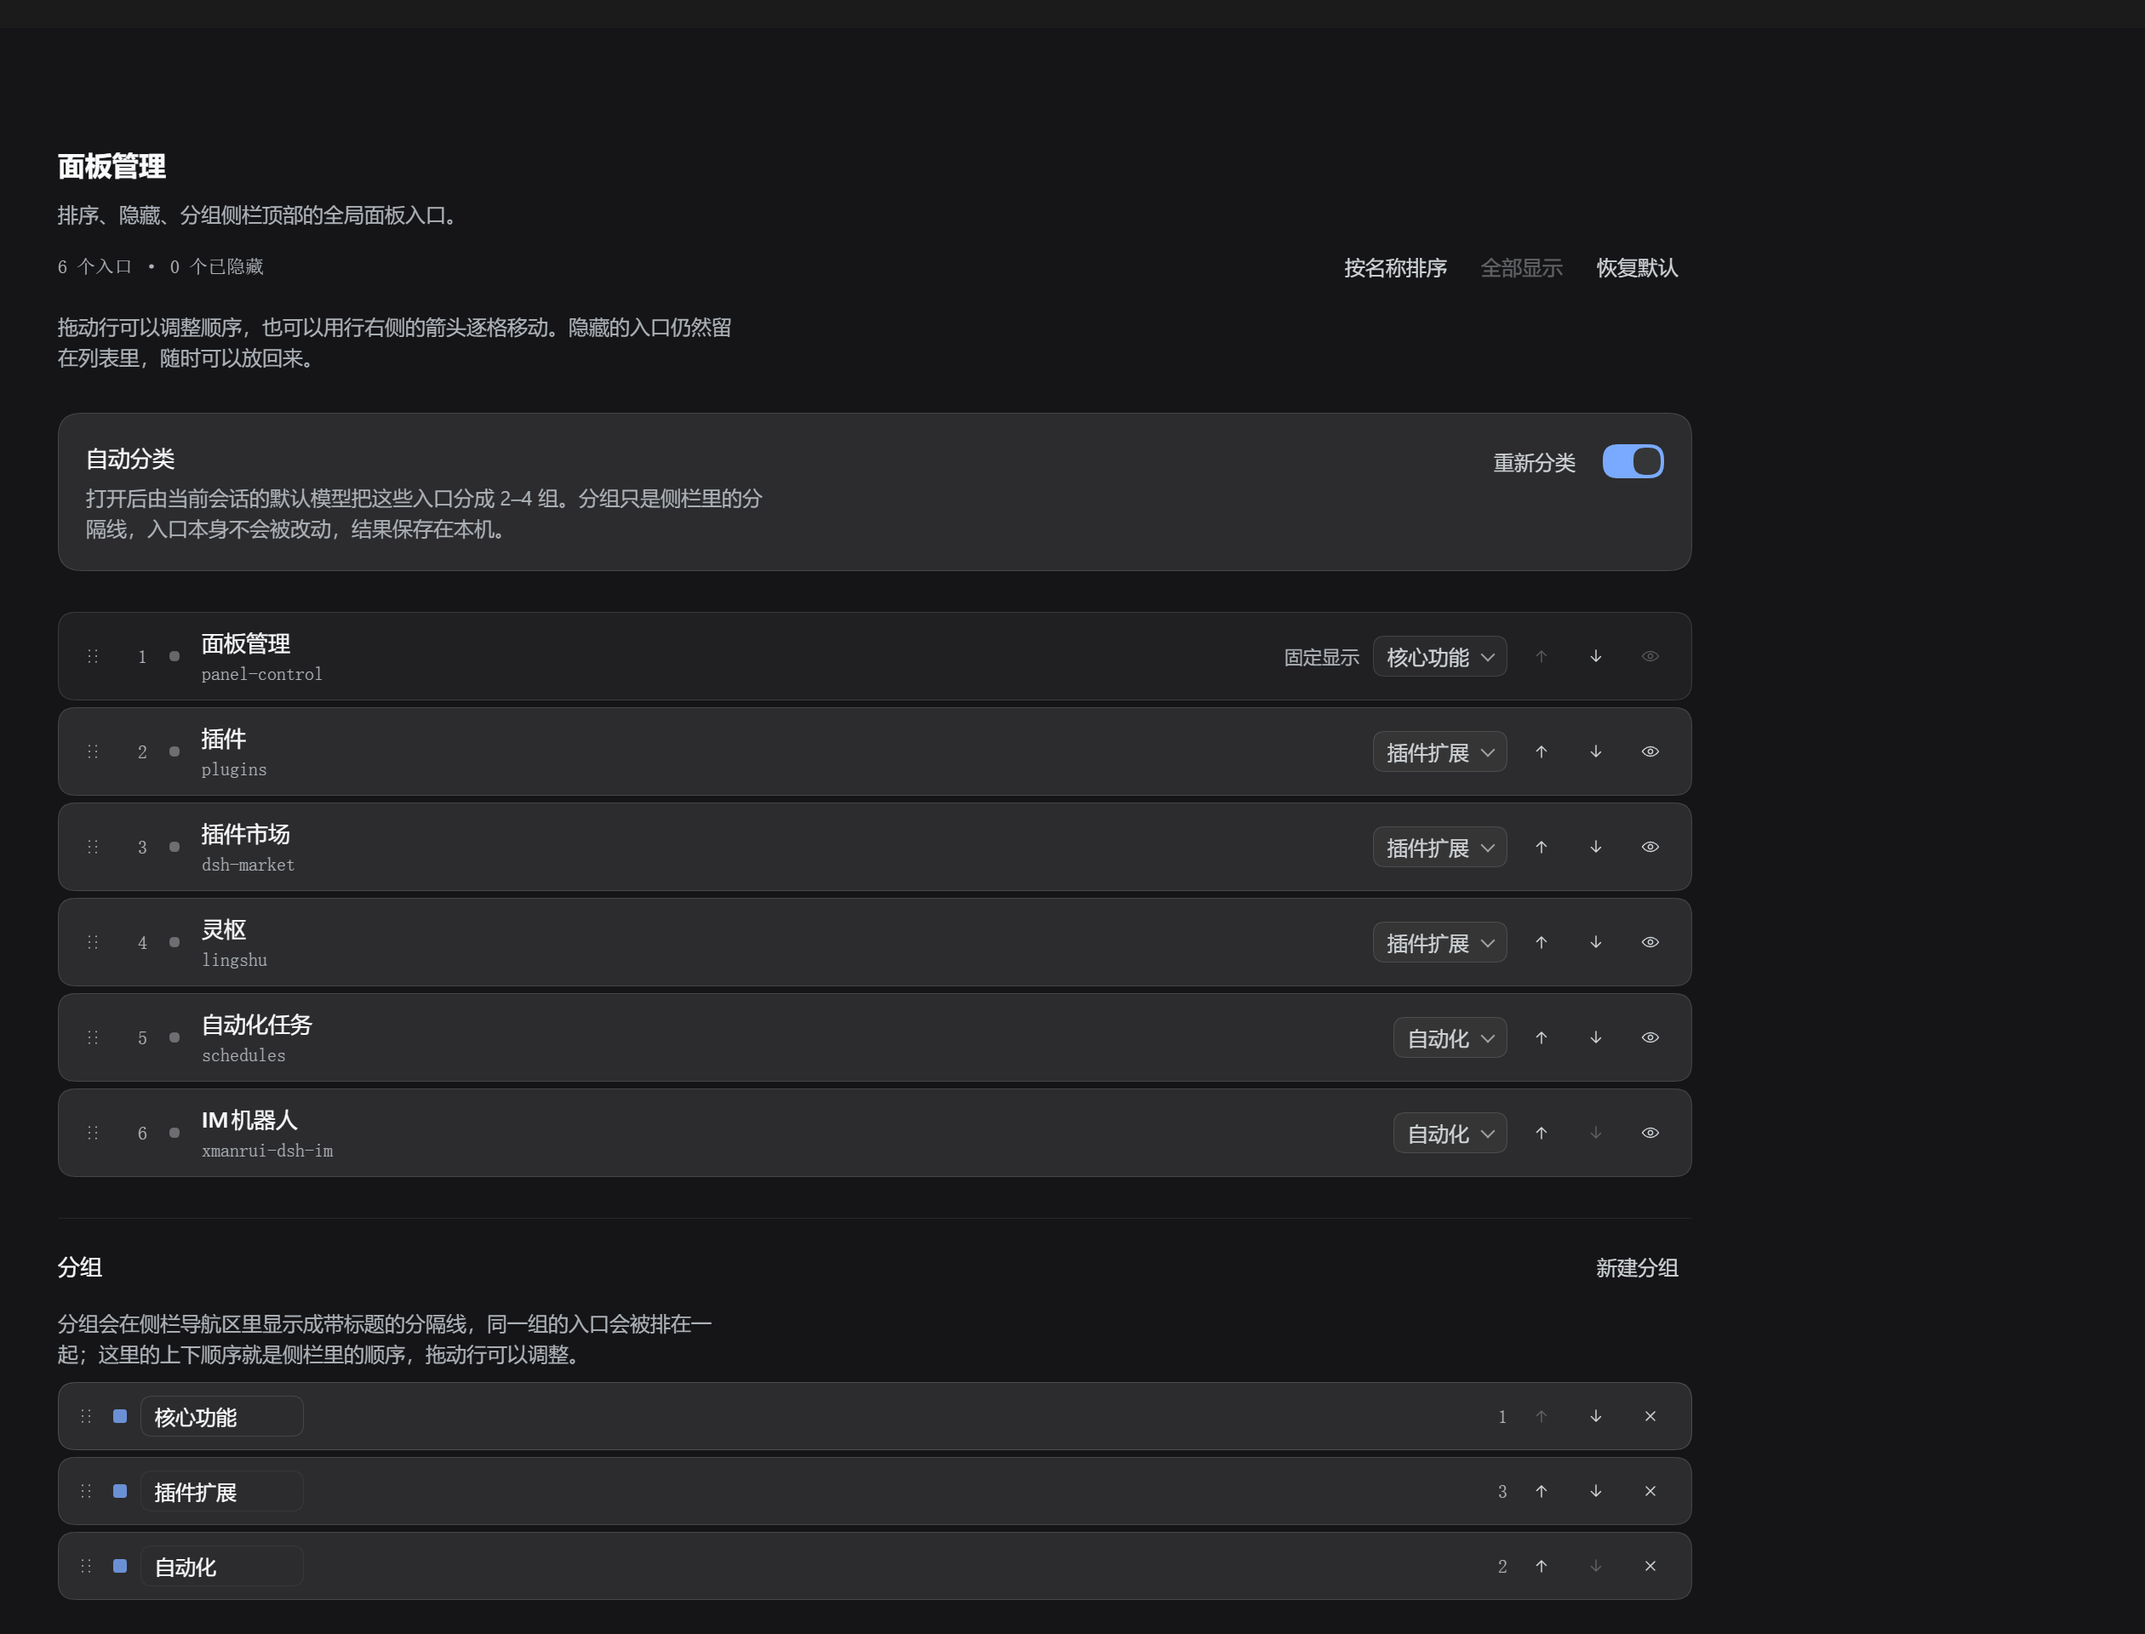
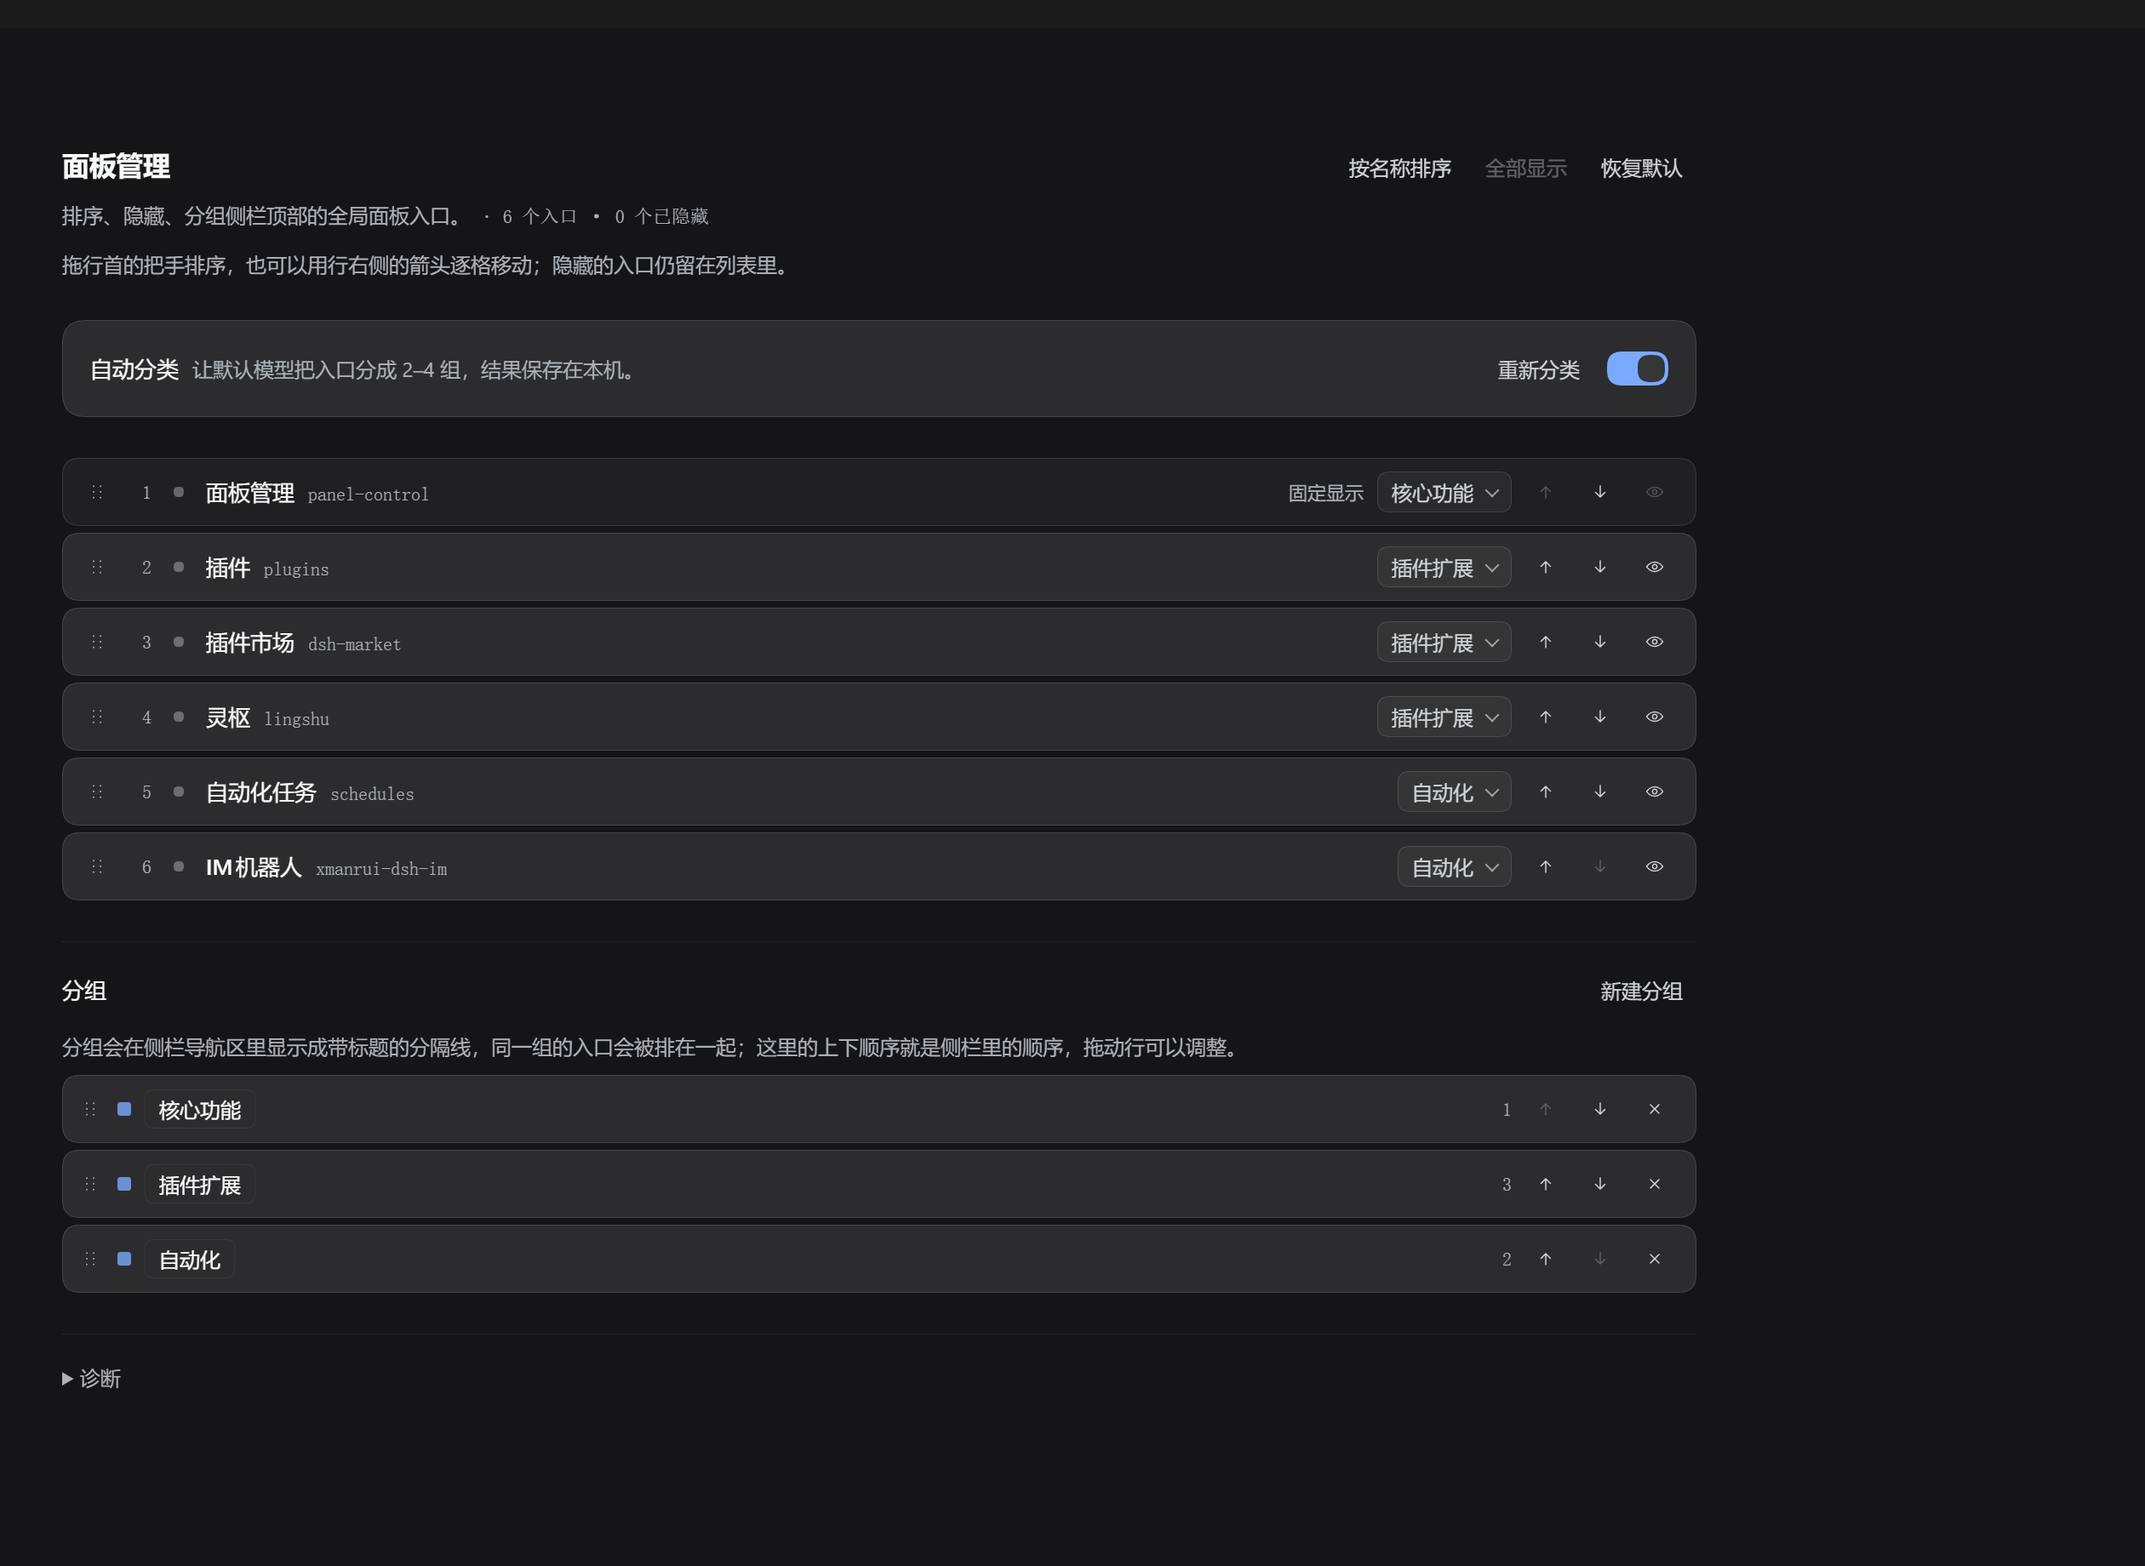
layout: keep every row on one line and let the group name field hug its text

diff --git a/client.js b/client.js
@@ -73,7 +73,7 @@ function build(require) {
     deleteGroup: { zh: '删除分组', en: 'Delete group' },
     countFmt: { zh: '{n} 个入口 · {h} 个已隐藏', en: '{n} entries · {h} hidden' },
     hint: {
-      zh: '拖动行可以调整顺序，也可以用行右侧的箭头逐格移动。隐藏的入口仍然留在列表里，随时可以放回来。',
+      zh: '拖行首的把手排序，也可以用行右侧的箭头逐格移动；隐藏的入口仍留在列表里。',
       en: 'Drag a row to reorder it, or use the arrows on the right to move it one step. A hidden entry stays in this list and can come back at any time.',
     },
     dragHint: { zh: '拖动排序', en: 'Drag to reorder' },
@@ -99,8 +99,8 @@ function build(require) {
     resetDone: { zh: '已恢复默认顺序与可见性。', en: 'Order and visibility were reset.' },
     autoTitle: { zh: '自动分类', en: 'Auto classify' },
     autoHint: {
-      zh: '打开后由当前会话的默认模型把这些入口分成 2–4 组。分组只是侧栏里的分隔线，入口本身不会被改动，结果保存在本机。',
-      en: 'When on, the default model of this session files these entries into 2-4 groups. Groups are only titled dividers in the sidebar, entries are never changed and the result stays on this machine.',
+      zh: '让默认模型把入口分成 2–4 组，结果保存在本机。',
+      en: 'The default model files the entries into 2-4 groups; the result stays on this machine.',
     },
     autoRunning: { zh: '正在分类…', en: 'Classifying…' },
     autoAgain: { zh: '重新分类', en: 'Classify again' },
@@ -1190,12 +1190,10 @@ function build(require) {
     const head = h(
       'header',
       { className: 'dpc-head' },
-      h('h1', { className: 'dpc-title' }, t('panelTitle')),
-      h('p', { className: 'dpc-lede' }, t('subtitle')),
       h(
         'div',
-        { className: 'dpc-toolbar' },
-        h('p', { className: 'dpc-count' }, fill(t('countFmt'), { n: order.length, h: hidden.size })),
+        { className: 'dpc-headLine' },
+        h('h1', { className: 'dpc-title' }, t('panelTitle')),
         h(
           'div',
           { className: 'dpc-toolbarActions' },
@@ -1213,6 +1211,13 @@ function build(require) {
           h('button', { type: 'button', className: 'dpc-link', onClick: resetAll }, t('reset')),
         ),
       ),
+      h(
+        'p',
+        { className: 'dpc-meta' },
+        h('span', { className: 'dpc-lede' }, t('subtitle')),
+        h('span', { className: 'dpc-sepText', 'aria-hidden': true }, '·'),
+        h('span', { className: 'dpc-count' }, fill(t('countFmt'), { n: order.length, h: hidden.size })),
+      ),
       h('p', { className: 'dpc-note dpc-hint' }, t('hint')),
     );
 
@@ -1226,7 +1231,7 @@ function build(require) {
           'div',
           { className: 'dpc-autoText' },
           h('h2', { className: 'dpc-cardTitle' }, t('autoTitle')),
-          h('p', { className: 'dpc-note' }, t('autoHint')),
+          h('p', { className: 'dpc-note dpc-inlineNote' }, t('autoHint')),
         ),
         h(
           'div',
@@ -1527,10 +1532,12 @@ function build(require) {
     .dpc-page{container-type:inline-size;display:flex;flex-direction:column;gap:24px;width:100%;min-width:0;padding-left:max(max(16px,min(4vw,48px)),50% - 480px);padding-right:max(max(16px,min(4vw,48px)),50% - 480px);animation:dpc-in 180ms cubic-bezier(.16,1,.3,1) both}
     @keyframes dpc-in{from{opacity:0;transform:translateY(4px)}to{opacity:1;transform:none}}
 
-    .dpc-head{display:flex;flex-direction:column;gap:8px}
+    .dpc-head{display:flex;flex-direction:column;gap:6px}
+    .dpc-headLine{display:flex;align-items:baseline;justify-content:space-between;gap:16px}
+    .dpc-meta{display:flex;align-items:baseline;gap:8px;margin:0;min-width:0;overflow:hidden;white-space:nowrap}
     .dpc-title{margin:0;font-size:16px;font-weight:600;line-height:24px;letter-spacing:-.01em;color:var(--dsw-alias-label-primary,#8a8a8a)}
-    .dpc-lede{margin:0;max-width:62ch;font-size:12px;line-height:18px;color:var(--dsw-alias-label-tertiary,rgba(127,127,127,.8))}
-    .dpc-toolbar{display:flex;align-items:center;justify-content:space-between;gap:16px;flex-wrap:wrap;min-height:28px}
+    .dpc-lede{margin:0;font-size:12px;line-height:18px;color:var(--dsw-alias-label-tertiary,rgba(127,127,127,.8));overflow:hidden;text-overflow:ellipsis}
+    .dpc-sepText{flex:none;color:var(--dsw-alias-label-tertiary,rgba(127,127,127,.6))}
     .dpc-toolbarActions{display:flex;align-items:center;gap:4px}
     .dpc-count{margin:0;flex:none;font-family:var(--dsw-font-family-code,ui-monospace,monospace);font-size:11px;line-height:16px;color:var(--dsw-alias-label-tertiary,rgba(127,127,127,.8));white-space:nowrap}
     .dpc-link{appearance:none;border:0;background:transparent;padding:4px 8px;border-radius:var(--dsw-radius-sm,6px);font:inherit;font-size:12px;line-height:16px;color:var(--dsw-alias-label-secondary,rgba(127,127,127,.95));cursor:pointer;transition:background-color 120ms cubic-bezier(.16,1,.3,1),color 120ms cubic-bezier(.16,1,.3,1)}
@@ -1539,10 +1546,11 @@ function build(require) {
 
     .dpc-card{padding:16px;border:.5px solid var(--dsw-alias-border-l2,rgba(127,127,127,.20));border-radius:var(--dsw-radius-lg,12px);background:var(--dsw-alias-settings-card-fill,rgba(127,127,127,.06))}
     .dpc-cardTitle{margin:0;font-size:13px;font-weight:500;line-height:20px;color:var(--dsw-alias-label-primary,#8a8a8a)}
-    .dpc-note{margin:4px 0 0;max-width:62ch;font-size:12px;line-height:18px;color:var(--dsw-alias-label-tertiary,rgba(127,127,127,.8))}
+    .dpc-note{margin:4px 0 0;max-width:none;font-size:12px;line-height:18px;color:var(--dsw-alias-label-tertiary,rgba(127,127,127,.8))}
     .dpc-auto{display:flex;flex-direction:column;gap:8px}
-    .dpc-autoMain{display:flex;align-items:flex-start;justify-content:space-between;gap:16px}
-    .dpc-autoText{min-width:0}
+    .dpc-autoMain{display:flex;align-items:center;justify-content:space-between;gap:16px}
+    .dpc-autoText{display:flex;align-items:baseline;gap:8px;min-width:0;overflow:hidden}
+    .dpc-inlineNote{margin:0;overflow:hidden;text-overflow:ellipsis;white-space:nowrap}
     .dpc-autoActions{display:flex;flex:none;align-items:center;gap:8px}
     .dpc-status{margin:0;font-size:12px;line-height:18px;color:var(--dsw-alias-label-secondary,rgba(127,127,127,.95))}
     .dpc-status[data-error="true"]{color:var(--dsw-alias-state-error-primary,#b45454)}
@@ -1553,7 +1561,7 @@ function build(require) {
     .dpc-switch[aria-checked="true"] .dpc-switchKnob{transform:translateX(16px)}
 
     .dpc-list{list-style:none;margin:0;padding:0;display:flex;flex-direction:column;gap:4px;min-width:0}
-    .dpc-row{display:flex;align-items:center;gap:8px;min-height:52px;padding:8px 12px;border:.5px solid var(--dsw-alias-border-l2,rgba(127,127,127,.20));border-radius:var(--dsw-radius-md,10px);background:var(--dsw-alias-settings-card-fill,rgba(127,127,127,.06));transition:background-color 120ms cubic-bezier(.16,1,.3,1),border-color 120ms cubic-bezier(.16,1,.3,1),opacity 120ms cubic-bezier(.16,1,.3,1)}
+    .dpc-row{display:flex;align-items:center;gap:8px;min-height:40px;padding:6px 12px;border:.5px solid var(--dsw-alias-border-l2,rgba(127,127,127,.20));border-radius:var(--dsw-radius-md,10px);background:var(--dsw-alias-settings-card-fill,rgba(127,127,127,.06));transition:background-color 120ms cubic-bezier(.16,1,.3,1),border-color 120ms cubic-bezier(.16,1,.3,1),opacity 120ms cubic-bezier(.16,1,.3,1)}
     .dpc-row:hover{background:var(--dsw-alias-interactive-bg-hover,rgba(127,127,127,.12));border-color:var(--dsw-alias-border-l3,rgba(127,127,127,.28))}
     .dpc-row:focus-within{border-color:var(--dsw-alias-border-l3,rgba(127,127,127,.32))}
     .dpc-row[data-dragging="true"],.dpc-group[data-dragging="true"]{opacity:.45}
@@ -1568,9 +1576,9 @@ function build(require) {
     .dpc-pos{flex:none;min-width:16px;font-family:var(--dsw-font-family-code,ui-monospace,monospace);font-size:11px;line-height:16px;text-align:right;color:var(--dsw-alias-label-tertiary,rgba(127,127,127,.7))}
     .dpc-glyph{display:inline-flex;flex:none;align-items:center;justify-content:center;width:16px;height:16px;color:var(--dsw-alias-label-secondary,rgba(127,127,127,.9))}
     .dpc-glyph:empty::before{content:'';width:6px;height:6px;border-radius:50%;background:currentColor;opacity:.4}
-    .dpc-rowText{display:flex;flex:1 1 auto;flex-direction:column;gap:2px;min-width:0}
-    .dpc-name{font-size:13px;font-weight:500;line-height:18px;max-width:100%;flex:none;overflow:hidden;text-overflow:ellipsis;white-space:nowrap}
-    .dpc-key{font-family:var(--dsw-font-family-code,ui-monospace,monospace);font-size:11px;line-height:14px;flex:none;color:var(--dsw-alias-label-tertiary,rgba(127,127,127,.7));overflow:hidden;text-overflow:ellipsis;white-space:nowrap}
+    .dpc-rowText{display:flex;flex:1 1 auto;flex-direction:row;align-items:baseline;gap:8px;min-width:0}
+    .dpc-name{font-size:13px;font-weight:500;line-height:18px;flex:0 1 auto;min-width:0;overflow:hidden;text-overflow:ellipsis;white-space:nowrap;overflow:hidden;text-overflow:ellipsis;white-space:nowrap}
+    .dpc-key{font-family:var(--dsw-font-family-code,ui-monospace,monospace);font-size:11px;line-height:16px;flex:0 1 auto;min-width:0;overflow:hidden;text-overflow:ellipsis;white-space:nowrap;color:var(--dsw-alias-label-tertiary,rgba(127,127,127,.7));overflow:hidden;text-overflow:ellipsis;white-space:nowrap}
     .dpc-tags{display:flex;flex:none;align-items:center;gap:8px}
     .dpc-tag{font-size:11px;line-height:16px;color:var(--dsw-alias-label-tertiary,rgba(127,127,127,.8));white-space:nowrap}
     .dpc-icon{appearance:none;display:inline-flex;flex:none;align-items:center;justify-content:center;width:24px;height:24px;border:0;border-radius:var(--dsw-radius-sm,6px);background:transparent;color:var(--dsw-alias-label-secondary,rgba(127,127,127,.9));cursor:pointer;transition:background-color 120ms cubic-bezier(.16,1,.3,1),color 120ms cubic-bezier(.16,1,.3,1)}
@@ -1598,7 +1606,7 @@ function build(require) {
     .dpc-groupDot{flex:none;width:8px;height:8px;border-radius:2px;background:var(--dsw-alias-state-business-primary,#5865f2);opacity:.8}
     .dpc-groupActions{display:flex;flex:none;align-items:center;gap:8px;margin-left:auto}
     .dpc-group .dpc-count{min-width:20px;text-align:right}
-    .dpc-input{flex:0 1 auto;width:auto;min-width:96px;max-width:320px;field-sizing:content;height:24px;padding:0 8px;border:.5px solid var(--dsw-alias-border-l1,rgba(127,127,127,.12));border-radius:var(--dsw-radius-sm,6px);background:transparent;color:var(--dsw-alias-label-primary,#8a8a8a);font:inherit;font-size:12px;line-height:16px;transition:border-color 120ms cubic-bezier(.16,1,.3,1),background-color 120ms cubic-bezier(.16,1,.3,1)}
+    .dpc-input{flex:0 1 auto;width:auto;min-width:2ch;max-width:320px;field-sizing:content;box-sizing:border-box;height:auto;padding:2px 8px;border:.5px solid var(--dsw-alias-border-l1,rgba(127,127,127,.12));border-radius:6px;background:transparent;color:var(--dsw-alias-label-primary,#8a8a8a);font:inherit;font-size:12px;line-height:18px;transition:border-color 120ms cubic-bezier(.16,1,.3,1),background-color 120ms cubic-bezier(.16,1,.3,1)}
     .dpc-group:hover .dpc-input{border-color:var(--dsw-alias-border-l2,rgba(127,127,127,.24))}
     .dpc-input:focus{outline:none;border-color:var(--dsw-alias-border-l3,rgba(127,127,127,.36));background:var(--dsw-alias-bg-l2,rgba(127,127,127,.10))}
 

diff --git a/README.md b/README.md
@@ -23,7 +23,7 @@
 
 ## 界面
 
-页面按 DSH 插件的页面框架摆：滚动条在页面层、边距落在内容列上，正文列上限 960px 居中，`28px + --dsh-frame-top-clearance` 起头。颜色全部取自 `--dsw-*` 语义 token（深浅色主题共用一套规则，不写死颜色、不分支 `prefers-color-scheme`），层级靠表面台阶 + 发丝线而不是阴影。字号收敛成 11/12/13/16 四档，数字与 id 用等宽体 + `tabular-nums`；图标统一 16px、描边 1.5 的自绘 SVG（没有 emoji，也没有借用字体里的箭头字符）。控件圆角 6–10，卡片 12，动效只有一个 `cubic-bezier(.16,1,.3,1)` 的 120ms 反馈与一次 180ms 入场，系统开启"减少动态效果"时全部关闭。
+页面按 DSH 插件的页面框架摆：滚动条在页面层、边距落在内容列上，正文列上限 960px 居中，`28px + --dsh-frame-top-clearance` 起头。颜色全部取自 `--dsw-*` 语义 token（深浅色主题共用一套规则，不写死颜色、不分支 `prefers-color-scheme`），层级靠表面台阶 + 发丝线而不是阴影。字号收敛成 11/12/13/16 四档，数字与 id 用等宽体 + `tabular-nums`。行一律单行：名称与注册 id 同行、行高 40，页头压成「标题 + 操作 / 副标题 · 计数 / 一行提示」三行，分组名输入框按内容收窄而不是拉成一条长框。图标统一 16px、描边 1.5 的自绘 SVG（没有 emoji，也没有借用字体里的箭头字符）。控件圆角 6–10，卡片 12，动效只有一个 `cubic-bezier(.16,1,.3,1)` 的 120ms 反馈与一次 180ms 入场，系统开启"减少动态效果"时全部关闭。
 
 视觉规范沿用 [unslop](https://github.com/heydamir/unslop)（Damir Sokolovsky，CC BY 4.0）的思路，按 DSH 的 token 体系与页面框架改写；分组下拉是自绘的，因为原生 `<select>` 的选项列表由系统控件绘制，深色主题下会弹出白底白字。
 
